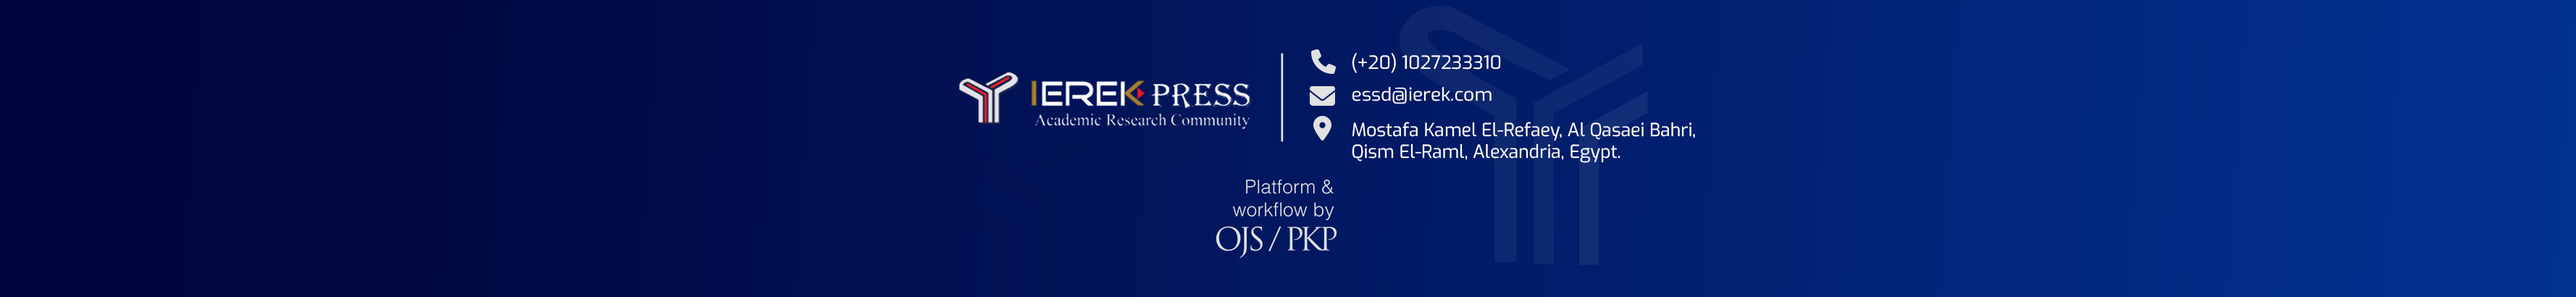
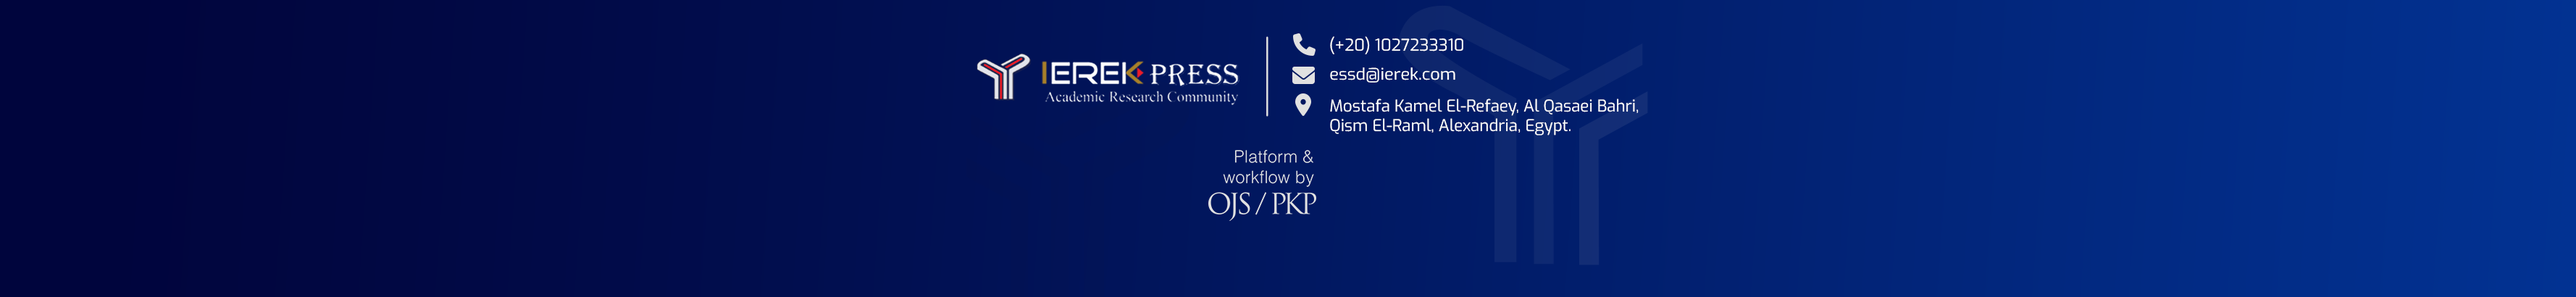
footer

diff --git a/styles-ESSD.css b/styles-ESSD.css
@@ -731,7 +731,7 @@ div.pkp_block.block_language .locale_ar_IQ a:hover {
 .pkp_structure_footer_wrapper {
     background: var(--footer--bg);
     background-position: center;
-    background-size: cover;
+    background-size: contain;
 }
 .pkp_structure_footer_wrapper img{
     width: 60%;
@@ -741,7 +741,7 @@ div.pkp_block.block_language .locale_ar_IQ a:hover {
     .pkp_structure_footer_wrapper {
         background: var(--footer-m-820);
         background-position: center;
-        background-size: cover;
+        background-size: contain;
     }
 }
 @media(max-width:540px){
@@ -775,13 +775,13 @@ div.pkp_block.block_language .locale_ar_IQ a:hover {
 }
 @media(max-width:1180px){
     .pkp_page_index .homepage_image:has(img[src*="https://press.ierek.com/public/journals/1/homepageImage_en_US.png"]) {
-        background: url(./images/ESSD-bg-medium-1180.png) no-repeat;
+        background: url(https://raw.githubusercontent.com/Eng-Yasmina/press.eirek.com/main/images/ESSD-bg-medium-1180.png) no-repeat;
         transform: translateX(-8.1em);
     }
 }
 @media(max-width:1024px){
     .pkp_page_index .homepage_image:has(img[src*="https://press.ierek.com/public/journals/1/homepageImage_en_US.png"]) {
-        background: url(./images/ESSD-bg-medium.png) no-repeat;
+        background: url(https://raw.githubusercontent.com/Eng-Yasmina/press.eirek.com/main/images/ESSD-bg-medium.png) no-repeat;
         transform: translateX(-2.5em);
         height: 100vh;
     }
@@ -805,7 +805,7 @@ div.pkp_block.block_language .locale_ar_IQ a:hover {
 }
 @media(max-width:720px){
     .pkp_page_index .homepage_image:has(img[src*="https://press.ierek.com/public/journals/1/homepageImage_en_US.png"]) {
-        background: url(./images/ESSD-bg-s-1.png) no-repeat;
+        background: url(https://raw.githubusercontent.com/Eng-Yasmina/press.eirek.com/main/images/ESSD-bg-s-1.png) no-repeat;
         transform: translateX(-4em);
         height: 50vh;
     }
@@ -2428,3 +2428,21 @@ a#editor-email {
     color: #081657;
 }
 
+.social-media {
+    top: 10em;
+    justify-content: center;
+    gap: 1em;
+    display: flex;
+    bottom: 0;
+    position: relative;
+}
+img.social-icon {
+    width: 2em;
+    visibility: visible;
+}
+.social-link {
+    transition: var(--transition);
+}
+.social-link:hover {
+    transform: scale(1.1);
+}

diff --git a/index.html b/index.html
@@ -410,3 +410,9 @@
 	<!-- I build the title of the section at the end to consider the order of elements in the grid -->
 	<a href="https://press.ierek.com/index.php/ESSD/editorial-team" target="_blank"><h1 id="team_title" class="team__title"><span class="team__bold-title"> Meet </span>our<br />Editorial Team</h1></a>
 	</section>
+
+<div class="social-media">
+	<a class="social-link" href="https://www.facebook.com/IEREKPress/" target="_blank"><img class="social-icon" src="https://cdn-icons-png.flaticon.com/512/1312/1312139.png" alt=""></a>
+	<a class="social-link" href="https://www.linkedin.com/company/ierek-press/?originalSubdomain=eg" target="_blank"><img class="social-icon" src="https://cdn-icons-png.flaticon.com/512/1377/1377213.png" alt=""></a>
+	<a class="social-link" href="https://twitter.com/ierek_press?lang=en" target="_blank"><img class="social-icon" src="https://cdn-icons-png.flaticon.com/512/3670/3670127.png" alt=""></a>
+</div>

diff --git a/ARChive.html b/ARChive.html
@@ -574,7 +574,7 @@
 <!------------------------------------ISSN------------------------------------>
 			<div class="ISSN" id="ISSN">
 				<div class="online-issn">
-					<h1>2537-0162</h1>
+					<h1>`</h1>
 					<h2>Online ISSN</h2>
 				</div>
 				<div class="print-issn">
